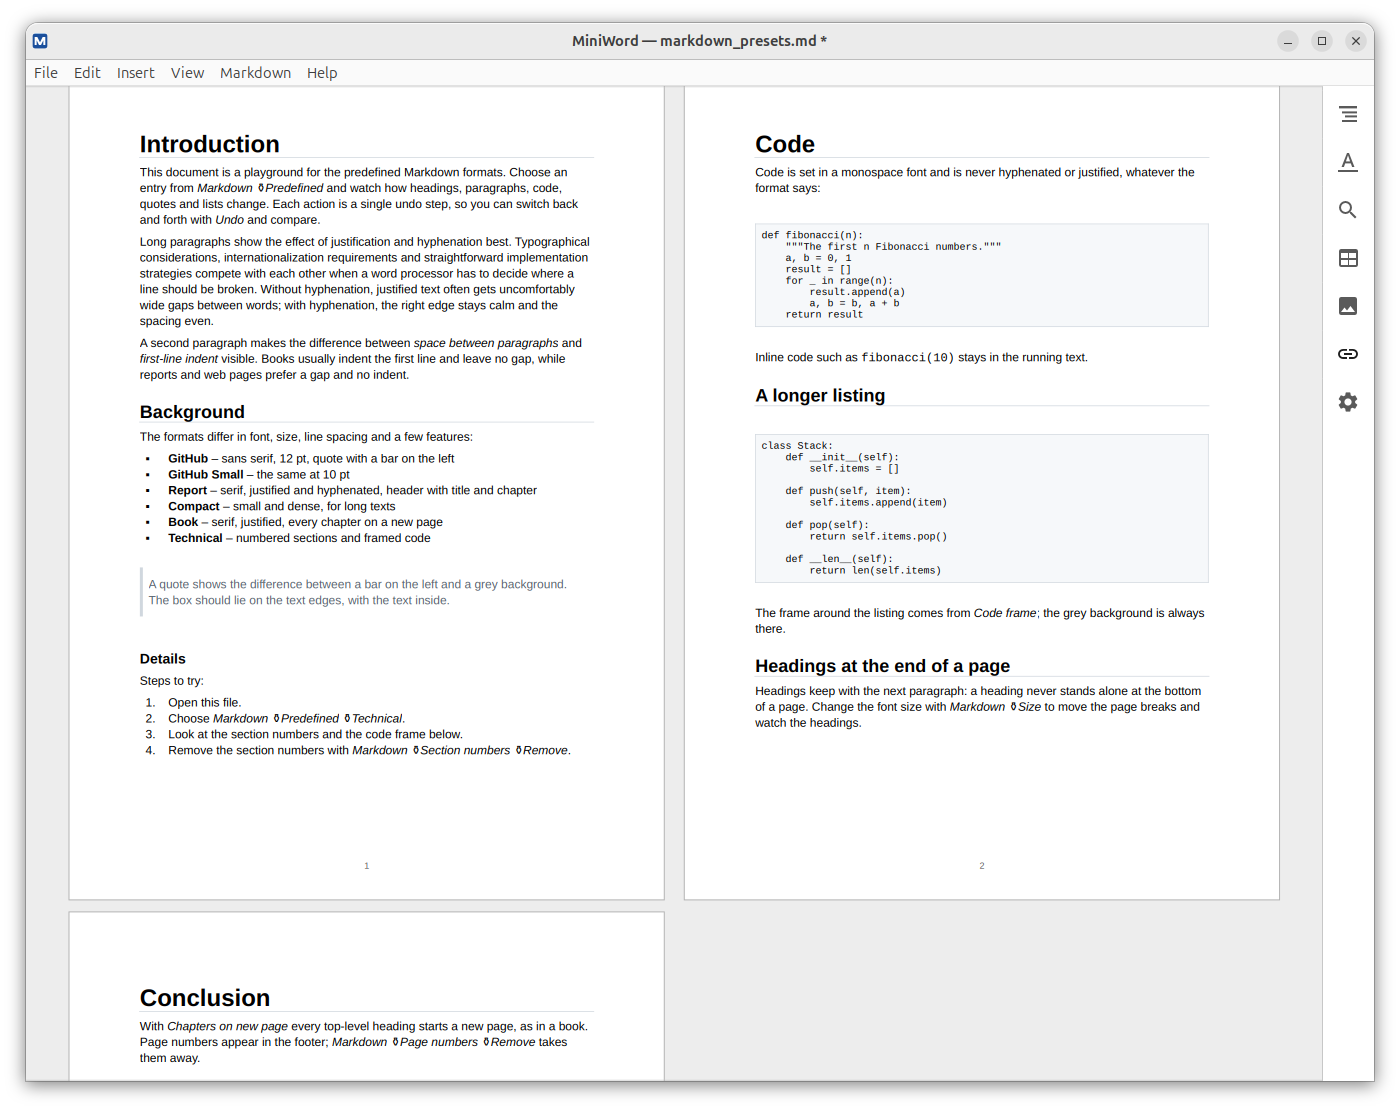
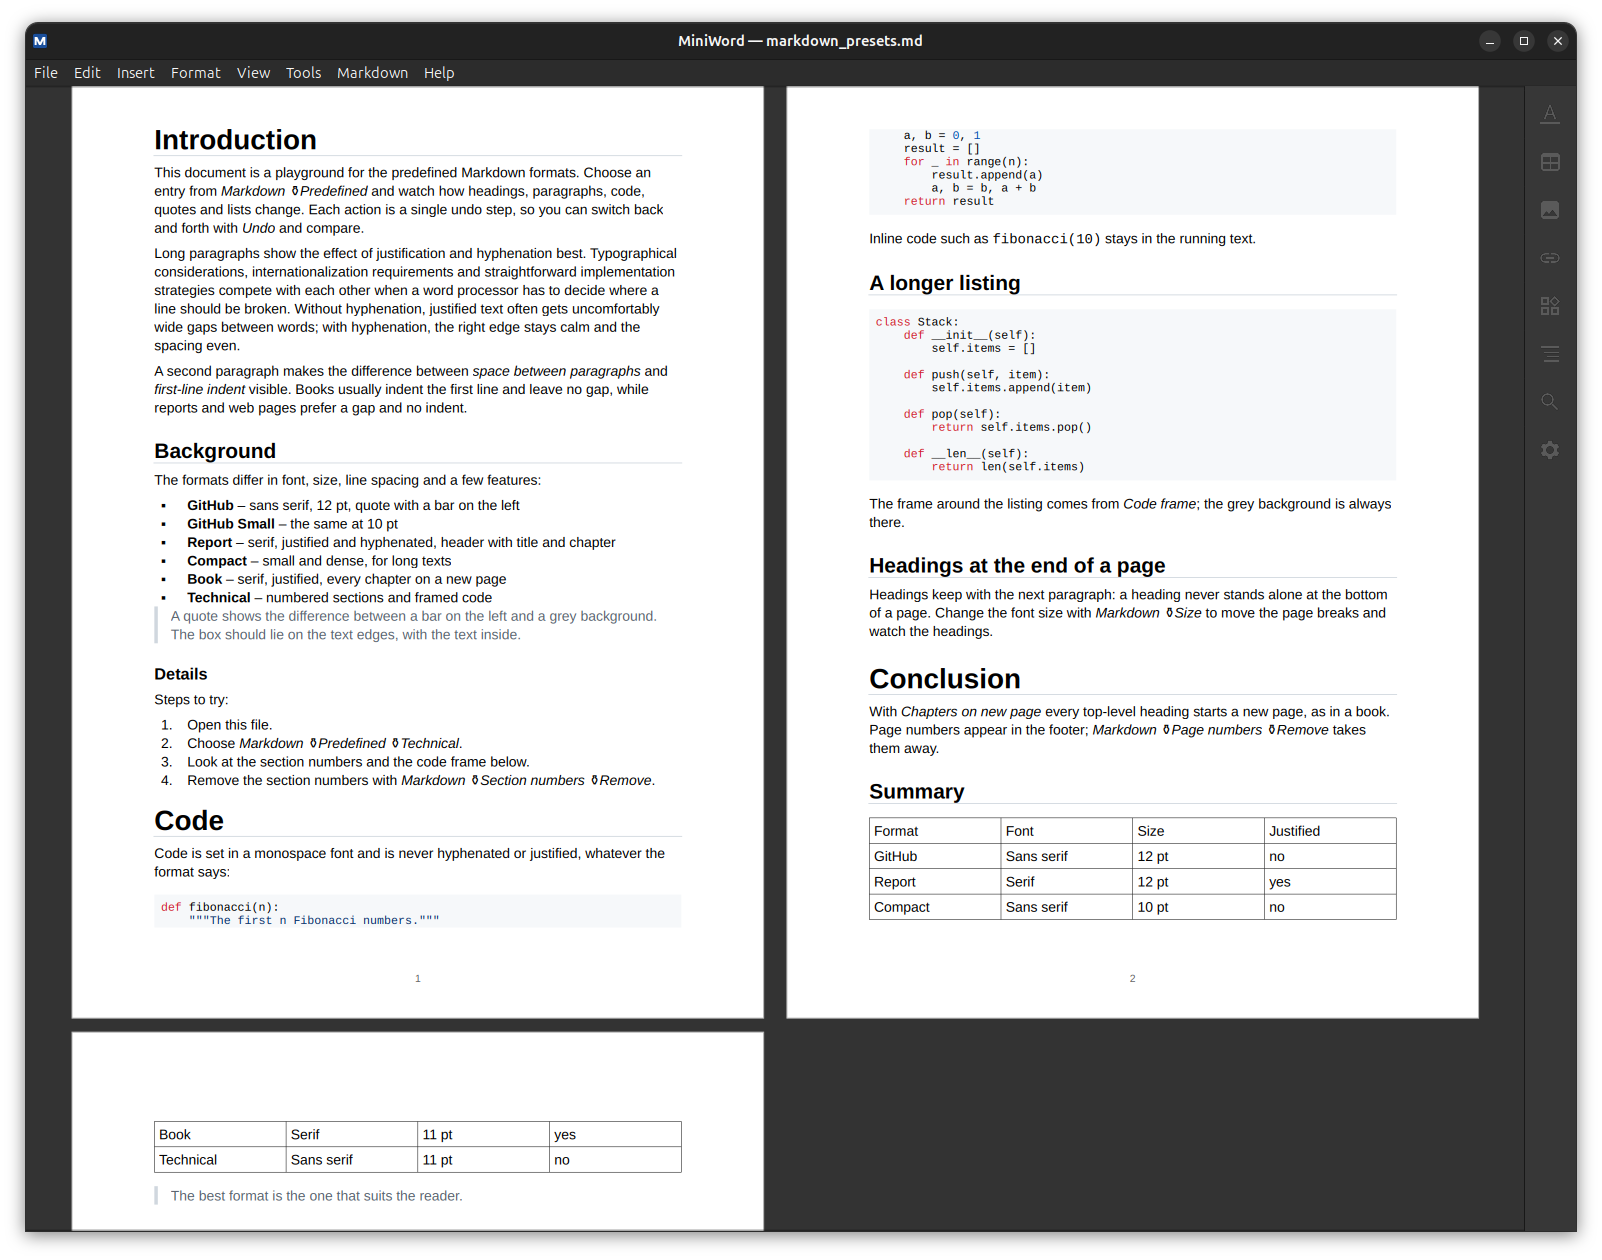
Updates screenshot; changed README.

diff --git a/README.md b/README.md
@@ -1,6 +1,6 @@
 # MiniWord
 
-A minimal word processor in python. In development but already great.
+A small word processor. In development but already great.
 
 ![Screenshot](https://codeberg.org/chrisecker/miniword/raw/branch/main/screenshots/miniword.png)
 
